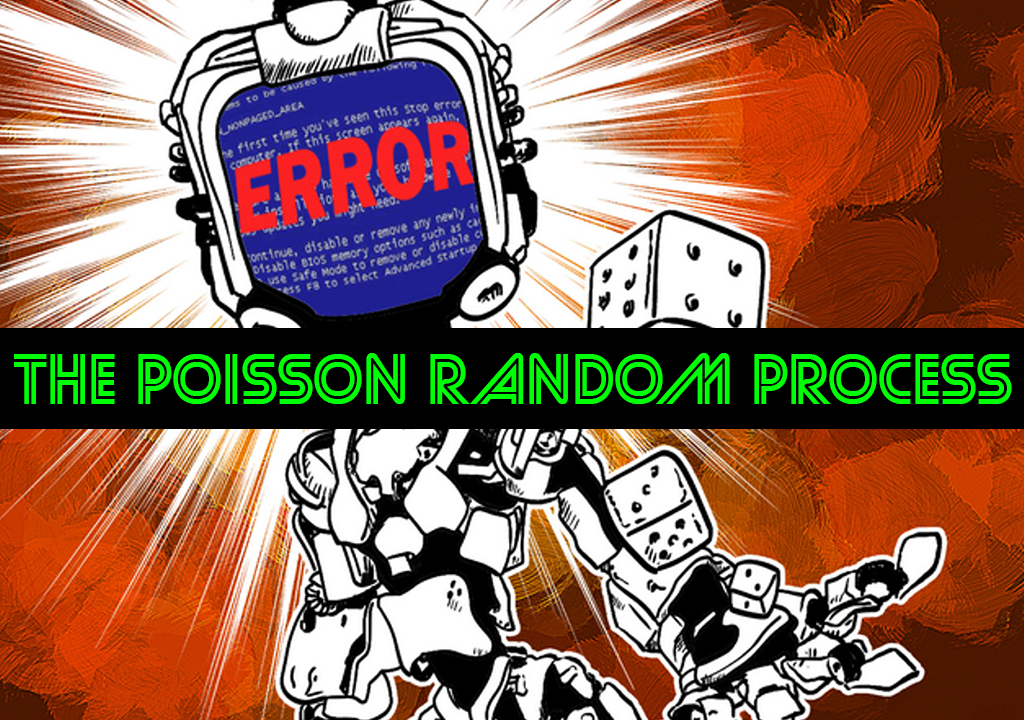
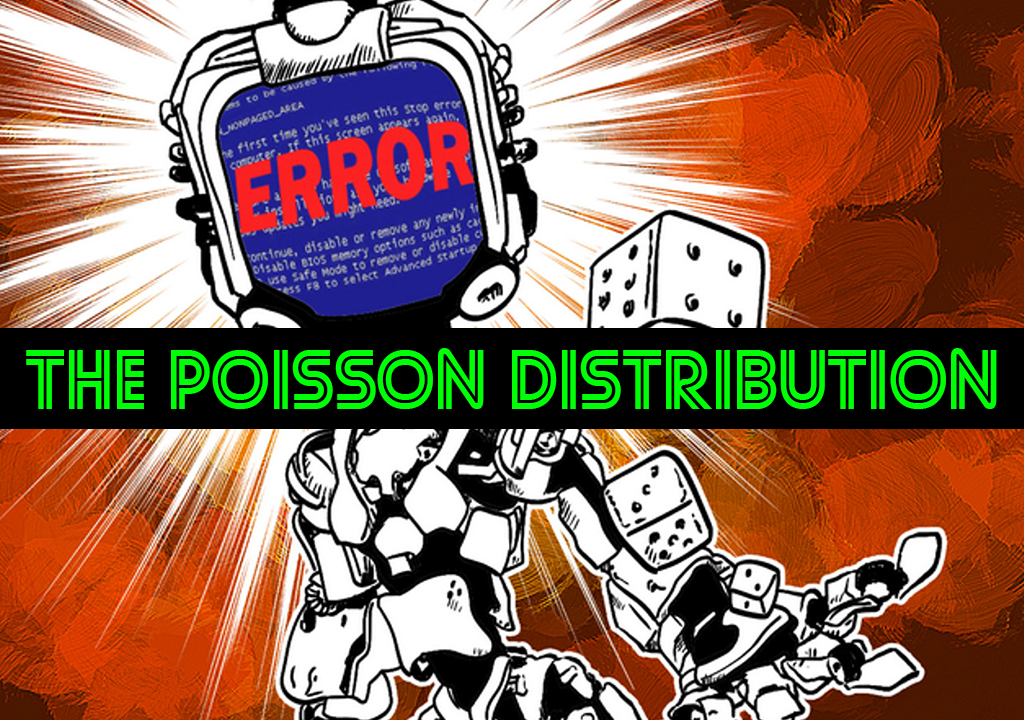
poisson filed renamed

Changed region(s): [[0.0, 0.4889, 1.0, 0.5806]]

diff --git a/_site/blog/index.html b/_site/blog/index.html
@@ -113,16 +113,16 @@
             <article class="card card-style2">
                 <div class="card-img">
                     <div class="fill">
-                        <a class="image-wrapper image-zoom cboxElement" href="/math/statistics/random-process/2022/07/14/the-poisson-process.html">
+                        <a class="image-wrapper image-zoom cboxElement" href="/math/statistics/random-process/2022/07/14/the-poisson-distribution.html">
                             <img src="/assets/images/poisson/title.png" class="rounded-top" alt="Photo of Blog">
                         </a>
                     </div>
                     <div class="date"><span>Jul</span>2022</div>
                 </div>
                 <div class="card-body">
-                    <h3 class="h4"><a href="/math/statistics/random-process/2022/07/14/the-poisson-process.html">The Poisson Distribution</a></h3>
+                    <h3 class="h4"><a href="/math/statistics/random-process/2022/07/14/the-poisson-distribution.html">The Poisson Distribution</a></h3>
                     <p class="display-30">A straightforward walk-through of a useful statistical concept, "The Poisson Distribution"</p>
-                    <a href="/math/statistics/random-process/2022/07/14/the-poisson-process.html" class="btn"><i class="fa fa-angle-double-right"></i> Read more</a>
+                    <a href="/math/statistics/random-process/2022/07/14/the-poisson-distribution.html" class="btn"><i class="fa fa-angle-double-right"></i> Read more</a>
                 </div>
                 <div class="card-footer">
                     <ul>
